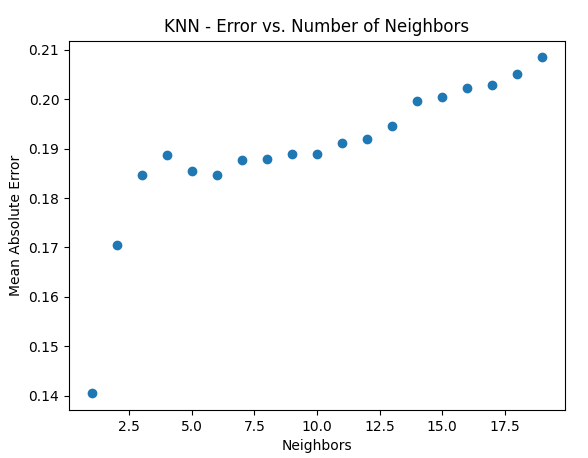
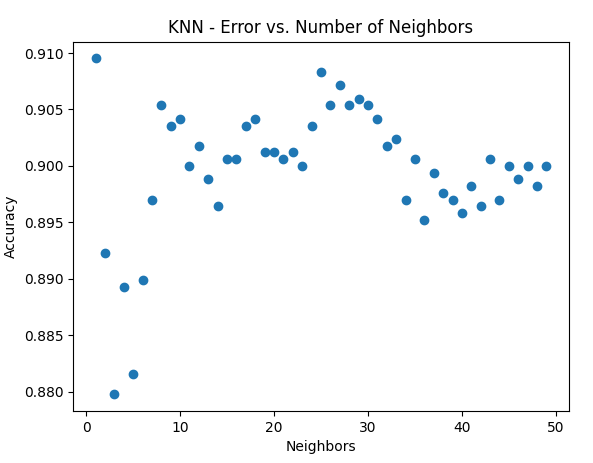
better accuracy metrics

diff --git a/HW5/P1/P1.py b/HW5/P1/P1.py
@@ -1,8 +1,7 @@
 import numpy as np
 import matplotlib.pyplot as plt
 from sklearn.model_selection import RepeatedStratifiedKFold, cross_val_score
-from sklearn.neighbors import KNeighborsRegressor
-from sklearn.metrics import mean_absolute_error, make_scorer
+from sklearn.neighbors import KNeighborsClassifier
 
 # P1 - K Nearest Neighbor
 
@@ -13,26 +12,26 @@ dataset = np.loadtxt("seeds_dataset.txt", delimiter="\t", dtype=float)
 X = dataset[:, 0:7]
 y = dataset[:, 7].astype(int)
 
-k = range(1, 20)
-errors = np.zeros(19)
+k = range(1, 50)
+errors = np.zeros(49)
 
 for i in k:
     # Cross validation
     cv = RepeatedStratifiedKFold(n_splits=5, n_repeats=8, random_state=7)
     # Regressor model
-    knn = KNeighborsRegressor(n_neighbors=i)
+    knn = KNeighborsClassifier(n_neighbors=i)
 
     # Score the model with cross validation
-    n_scores = cross_val_score(knn, X, y, scoring=make_scorer(mean_absolute_error), cv=cv, n_jobs=-1)
+    n_scores = cross_val_score(knn, X, y, scoring='accuracy', cv=cv, n_jobs=-1)
 
     # Print results
     print(f"K-Nearest-Neighbor (k={i})")
-    print(f'\t> Mean Abs. Error (stdev): {np.average(n_scores):.3f} ({np.std(n_scores):.3f})')
+    print(f'\t> Mean Accuracy (stdev): {np.average(n_scores):.3f} ({np.std(n_scores):.3f})')
 
     errors[i-1] = np.average(n_scores)
 
 plt.scatter(k, errors)
 plt.title("KNN - Error vs. Number of Neighbors")
 plt.xlabel('Neighbors')
-plt.ylabel('Mean Absolute Error')
+plt.ylabel('Accuracy')
 plt.show()
